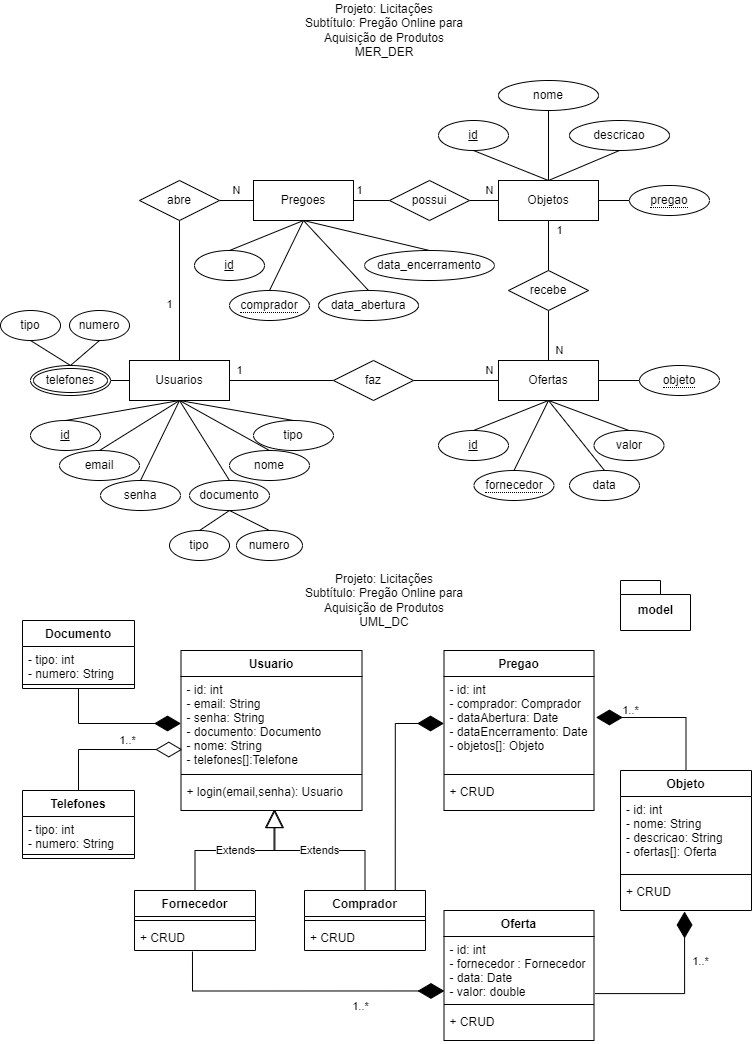
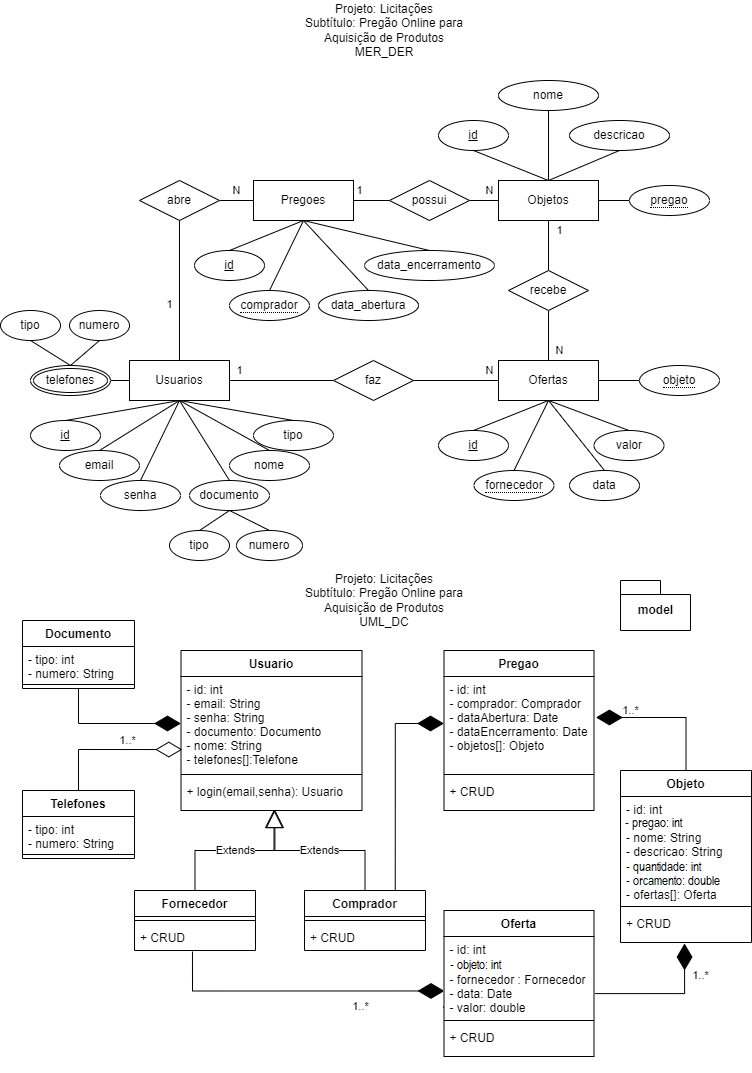
1des fpoo aula17

diff --git a/2des/projetos/pregoes/back/src/dao/oferta.dao.js b/2des/projetos/pregoes/back/src/dao/oferta.dao.js
@@ -1,6 +1,14 @@
 const con = require('./connection');
-const Oferta = require('../models/Oferta');
 const Fornecedor = require('./fornecedor.dao');
+
+const create = (o) => {
+    return new Promise((resolve, reject) => {
+        let string = `INSERT INTO Ofertas(objeto, fornecedor, data, valor) VALUES (${o.objeto}, ${o.fornecedor}, curdate(), ${o.valor});`
+        con.query(string, (err, result) => {
+            err ? reject(err) : resolve(result);
+        })
+    });
+}
 
 const readAll = () => {
     return new Promise((resolve, reject) => {
@@ -20,24 +28,67 @@ const readView = () => {
     });
 }
 
+const readFornecedor = (fornecedorId) => {
+    return new Promise((resolve, reject) => {
+        let string = `SELECT * FROM ofertas WHERE fornecedor = ${fornecedorId} ORDER BY data DESC;`
+        con.query(string, (err, result) => {
+            err ? reject(err) : resolve(result);
+        })
+    });
+}
+
+const readObjeto = (objetoId) => {
+    return new Promise((resolve, reject) => {
+        let string = `SELECT * FROM ofertas WHERE objeto = ${objetoId} ORDER BY data DESC;`
+        con.query(string, (err, result) => {
+            err ? reject(err) : resolve(result);
+        })
+    });
+}
+
 const read = (id) => {
     return new Promise((resolve, reject) => {
         let string = `SELECT * FROM ofertas WHERE oferta_id = ${id};`
         con.query(string, (err, result) => {
             if (err) reject(err)
-            else {
+            else if (result.length > 0) {
                 Promise.resolve(Fornecedor.read(result[0].fornecedor))
                     .then(res => {
                         result[0].fornecedor = res[0];
                         resolve(result);
-                    }).catch(erro => reject(erro));  
+                    }).catch(erro => reject(erro));
+            }else{
+                resolve(result);
             }
         })
     });
 }
 
+const update = (o) => {
+    return new Promise((resolve, reject) => {
+        let string = `UPDATE Ofertas SET valor = ${o.valor} WHERE oferta_id = ${o.id};`
+        con.query(string, (err, result) => {
+            err ? reject(err) : resolve(result);
+        })
+    });
+}
+
+const del = (id) => {
+    return new Promise((resolve, reject) => {
+        let string = `DELETE FROM Ofertas WHERE oferta_id = ${id};`
+        con.query(string, (err, result) => {
+            err ? reject(err) : resolve(result);
+        })
+    });
+}
+
 module.exports = {
+    create,
     readAll,
     readView,
-    read
+    readFornecedor,
+    readObjeto,
+    read,
+    update,
+    del
 }

diff --git a/2des/projetos/pregoes/back/src/controllers/objeto.controller.js b/2des/projetos/pregoes/back/src/controllers/objeto.controller.js
@@ -1,7 +1,7 @@
-const Oferta = require('../dao/oferta.dao');
+const Objeto = require('../dao/objeto.dao');
 
 const create = (req, res) => {
-    Promise.resolve(Oferta.create(req.body))
+    Promise.resolve(Objeto.create(req.body))
         .then(result => {
             res.status(201).json(result).end();
         })
@@ -9,40 +9,13 @@ const create = (req, res) => {
 }
 
 const readAll = (req, res) => {
-    Promise.resolve(Oferta.readAll())
+    Promise.resolve(Objeto.readAll())
         .then(result => res.json(result).end())
-        .catch(err => res.status(500).json(err).end());
-}
-
-const readView = (req, res) => {
-    Promise.resolve(Oferta.readView())
-        .then(result => res.json(result).end())
-        .catch(err => res.status(500).json(err).end());
-}
-const readFornecedor = (req, res) => {
-    Promise.resolve(Oferta.readFornecedor(req.params.id))
-        .then(result => {
-            if (result.length > 0)
-                res.json(result).end();
-            else
-                res.status(404).end();
-        })
-        .catch(err => res.status(500).json(err).end());
-}
-
-const readObjeto = (req, res) => {
-    Promise.resolve(Oferta.readObjeto(req.params.id))
-        .then(result => {
-            if (result.length > 0)
-                res.json(result).end();
-            else
-                res.status(404).end();
-        })
         .catch(err => res.status(500).json(err).end());
 }
 
 const read = (req, res) => {
-    Promise.resolve(Oferta.read(req.params.id))
+    Promise.resolve(Objeto.read(req.params.id))
         .then(result => {
             if (result.length > 0)
                 res.json(result).end();
@@ -53,7 +26,7 @@ const read = (req, res) => {
 }
 
 const update = (req, res) => {
-    Promise.resolve(Oferta.update(req.body))
+    Promise.resolve(Objeto.update(req.body))
         .then(result => {
             if (result.affectedRows != 0)
                 return res.json(result).end()
@@ -64,7 +37,7 @@ const update = (req, res) => {
 }
 
 const del = (req, res) => {
-    Promise.resolve(Oferta.del(req.params.id))
+    Promise.resolve(Objeto.del(req.params.id))
         .then(result => {
             if (result.affectedRows != 0)
                 return res.json(result).end()
@@ -77,9 +50,6 @@ const del = (req, res) => {
 module.exports = {
     create,
     readAll,
-    readView,
-    readFornecedor,
-    readObjeto,
     read,
     update,
     del

diff --git a/2des/projetos/pregoes/back/src/dao/objeto.dao.js b/2des/projetos/pregoes/back/src/dao/objeto.dao.js
@@ -1,0 +1,66 @@
+const con = require('./connection');
+const Oferta = require('./oferta.dao');
+
+const create = (o) => {
+    return new Promise((resolve, reject) => {
+        let string = `INSERT INTO Objetos(pregao, nome, descricao, quantidade, orcamento_unitario) VALUES`+
+        `(${o.pregao}, '${o.nome}', '${o.descricao}', ${o.quantidade}, ${o.orcamento});`
+        con.query(string, (err, result) => {
+            err ? reject(err) : resolve(result);
+        })
+    });
+}
+
+const readAll = () => {
+    return new Promise((resolve, reject) => {
+        let string = `SELECT * FROM Objetos ORDER BY pregao DESC;`
+        con.query(string, (err, result) => {
+            err ? reject(err) : resolve(result);
+        })
+    });
+}
+
+const read = (id) => {
+    return new Promise((resolve, reject) => {
+        let string = `SELECT * FROM Objetos WHERE objeto_id = ${id};`
+        con.query(string, (err, result) => {
+            if (err) reject(err)
+            else if (result.length > 0) {
+                Promise.resolve(Oferta.readObjeto(result[0].objeto_id))
+                    .then(res => {
+                        result[0].ofertas = res;
+                        resolve(result);
+                    }).catch(erro => reject(erro));
+            }else{
+                resolve(result);
+            }
+        })
+    });
+}
+
+const update = (o) => {
+    return new Promise((resolve, reject) => {
+        let string = `UPDATE Objetos SET nome = '${o.nome}', descricao = '${o.descricao}',`+
+        ` quantidade = ${o.quantidade}, orcamento_unitario = ${o.orcamento} WHERE objeto_id = ${o.id};`
+        con.query(string, (err, result) => {
+            err ? reject(err) : resolve(result);
+        })
+    });
+}
+
+const del = (id) => {
+    return new Promise((resolve, reject) => {
+        let string = `DELETE FROM Objetos WHERE objeto_id = ${id};`
+        con.query(string, (err, result) => {
+            err ? reject(err) : resolve(result);
+        })
+    });
+}
+
+module.exports = {
+    create,
+    readAll,
+    read,
+    update,
+    del
+}

diff --git a/2des/projetos/pregoes/back/index.js b/2des/projetos/pregoes/back/index.js
@@ -8,6 +8,7 @@ const usuario = require('./src/views/usuario.routes');
 const comprador = require('./src/views/comprador.routes');
 const fornecedor = require('./src/views/fornecedor.routes');
 const oferta = require('./src/views/oferta.routes');
+const objeto = require('./src/views/objeto.routes');
 
 //Iniciar a API
 const app = express()
@@ -16,7 +17,8 @@ const app = express()
     .use('/usuarios', usuario)
     .use('/compradores', comprador)
     .use('/fornecedores', fornecedor)
-    .use('/ofertas', oferta);
+    .use('/ofertas', oferta)
+    .use('/objetos', objeto);
 
 app.listen(PORT, () => {
     console.log('API em execução na porta ' + PORT);

diff --git a/2des/projetos/pregoes/back/src/views/oferta.routes.js b/2des/projetos/pregoes/back/src/views/oferta.routes.js
@@ -3,8 +3,13 @@ const router = express.Router();
 
 const Oferta = require('../controllers/oferta.controller');
 
+router.post("/create", Oferta.create);
 router.get("/read", Oferta.readAll);
 router.get("/read/view", Oferta.readView);
+router.get("/read/fornecedor/:id", Oferta.readFornecedor);
+router.get("/read/objeto/:id", Oferta.readObjeto);
 router.get("/read/:id", Oferta.read);
+router.put("/update", Oferta.update);
+router.delete("/del/:id", Oferta.del);
 
 module.exports = router;

diff --git a/2des/projetos/pregoes/back/src/models/Objeto.js b/2des/projetos/pregoes/back/src/models/Objeto.js
@@ -2,10 +2,13 @@ class Objeto {
 
     ofertas = [];
     
-    constructor(id, nome, descricao) {
+    constructor(id, pregao, nome, descricao, quantidade, orcamento) {
         this.id = id;
+        this.pregao = pregao;
         this.nome = nome;
         this.descricao = descricao;
+        this.quantidade = quantidade;
+        this.orcamento = orcamento;
     }
 
     addOferta(oferta){

diff --git a/2des/projetos/pregoes/back/src/views/objeto.routes.js b/2des/projetos/pregoes/back/src/views/objeto.routes.js
@@ -1,0 +1,12 @@
+const express = require('express');
+const router = express.Router();
+
+const Objeto = require('../controllers/objeto.controller');
+
+router.post("/create", Objeto.create);
+router.get("/read", Objeto.readAll);
+router.get("/read/:id", Objeto.read);
+router.put("/update", Objeto.update);
+router.delete("/del/:id", Objeto.del);
+
+module.exports = router;

diff --git a/1des/fpoo/aula17/Notas/src/exemplos/Main1.java b/1des/fpoo/aula17/Notas/src/exemplos/Main1.java
@@ -1,0 +1,29 @@
+package exemplos;
+
+import java.io.BufferedWriter;
+import java.io.FileWriter;
+import java.io.IOException;
+import java.util.Random;
+
+public class Main1 {
+
+	public static void main(String[] args) {
+		Random r = new Random();
+		String alunos[] = {"Juquinha", "Joãozinho", "Aninha", "Flavinha"};
+		float prova = r.nextFloat() * 10;
+		float trabalho = r.nextFloat() * 10;
+		float atividades = r.nextFloat() * 10;
+		float media = (prova + trabalho + atividades) / 3;
+		String saida = String.format("%s;%.1f;%.1f;%.1f;%.1f\r\n", alunos[r.nextInt(3)], prova, trabalho, atividades, media);
+
+		try {
+			BufferedWriter bw = new BufferedWriter(new FileWriter("./bd/notas.csv",true));
+			bw.write(saida);
+			bw.close();
+			System.out.println("Arquivo criado com sucesso.");
+		} catch (IOException e) {
+			e.printStackTrace();
+		}
+	}
+
+}

diff --git a/1des/fpoo/aula17/README.md b/1des/fpoo/aula17/README.md
@@ -1,0 +1,6 @@
+# Manipulação de Arquivos de texto:
+- BufferedWriter (Prepara os dados da memória RAM)
+- FileWriter (Salva os dados no HD em um arquivo de texto)
+- BufferedReader (Carrega os dados na memória RAM)
+- FileReader (Lê os dados do arquivo no HD)
+- <img src="lousa.png">
